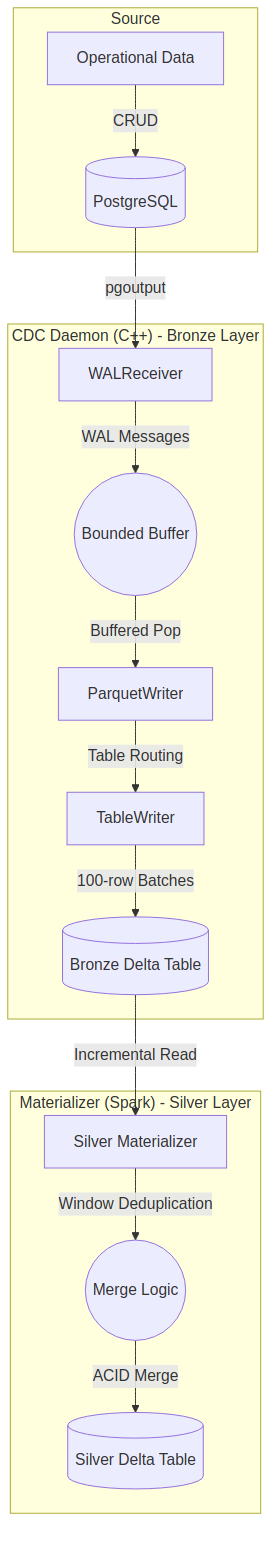
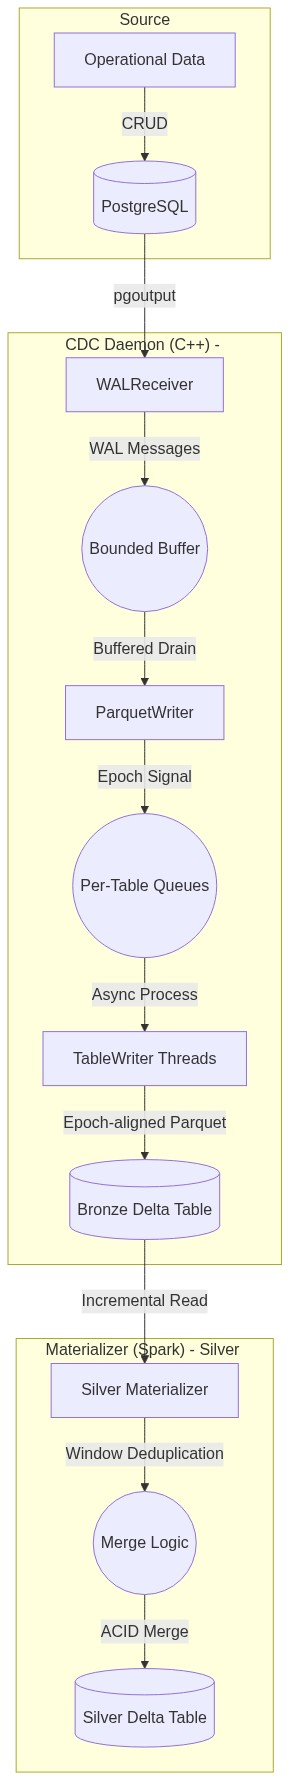
docs: sync architecture and README with latest code, update dependencies and test verify logic

diff --git a/scripts/render_diagrams.py b/scripts/render_diagrams.py
@@ -1,0 +1,65 @@
+import os
+import re
+import base64
+import urllib.request
+import sys
+
+def render_mermaid(mermaid_code, output_path):
+    print(f"Rendering diagram to {output_path}...")
+    # Mermaid.ink expects base64 encoded JSON or just base64 encoded string
+    # Simple base64 encoding of the string works for many versions
+    sample_string_bytes = mermaid_code.encode("utf-8")
+    base64_bytes = base64.b64encode(sample_string_bytes)
+    base64_string = base64_bytes.decode("utf-8")
+    
+    url = f"https://mermaid.ink/img/{base64_string}"
+    
+    headers = {
+        "User-Agent": "Mozilla/5.0 (Windows NT 10.0; Win64; x64) AppleWebKit/537.36 (KHTML, like Gecko) Chrome/91.0.4472.124 Safari/537.36"
+    }
+    
+    try:
+        req = urllib.request.Request(url, headers=headers)
+        with urllib.request.urlopen(req) as response:
+            with open(output_path, "wb") as f:
+                f.write(response.read())
+        print(f"✅ Success: {output_path}")
+        return True
+    except Exception as e:
+        print(f"❌ Error rendering {output_path}: {e}")
+        return False
+
+def process_markdown_file(file_path):
+    with open(file_path, "r") as f:
+        content = f.read()
+    
+    # Pattern: ![alt](images/filename.png) followed by mermaid block
+    # We use a regex that looks for the image link and then the next mermaid block
+    pattern = r'!\[.*?\]\((images/(.*?\.png))\)\s*?(?:<details>.*?)?```mermaid\n(.*?)\n```'
+    matches = re.findall(pattern, content, re.DOTALL)
+    
+    success_count = 0
+    for img_path, img_name, mermaid_code in matches:
+        full_output_path = os.path.join(os.getcwd(), img_path)
+        if render_mermaid(mermaid_code.strip(), full_output_path):
+            success_count += 1
+            
+    return success_count
+
+def main():
+    # Ensure images directory exists
+    if not os.path.exists("images"):
+        os.makedirs("images")
+        
+    files_to_process = ["README.md", "architecture.md"]
+    total_rendered = 0
+    
+    for file in files_to_process:
+        if os.path.exists(file):
+            print(f"Processing {file}...")
+            total_rendered += process_markdown_file(file)
+            
+    print(f"\nDone! Rendered {total_rendered} diagrams.")
+
+if __name__ == "__main__":
+    main()

diff --git a/test/duckdb_verify.py b/test/duckdb_verify.py
@@ -87,13 +87,20 @@ def verify():
     
     # 7. Snapshot Verification
     res_snapshot = con.execute(f"SELECT count(*) FROM read_parquet('/app/data/integration_test/**/*.parquet', union_by_name=True) WHERE _cdc_op = 'SNAPSHOT'").fetchone()[0]
+    expected_deletes = int(res_snapshot) + 1 # 100 historical + 1 workload delete
     print(f"Snapshot Records (Historical): {res_snapshot} (Expected: 100)")
 
     # 6. Secondary Table Verification
     secondary_path = "/app/data/secondary_test/**/*.parquet"
     res_secondary = 0
     if os.path.exists("/app/data/secondary_test"):
-         res_secondary = con.execute(f"SELECT count(*) FROM read_parquet('{secondary_path}')").fetchone()[0]
+         res_secondary = con.execute(f"""
+            SELECT count(*) FROM (
+                SELECT id,
+                       row_number() OVER (PARTITION BY id ORDER BY _cdc_lsn DESC, _cdc_timestamp DESC) as rn
+                FROM read_parquet('{secondary_path}')
+            ) WHERE rn = 1
+         """).fetchone()[0]
     
     print("-" * 40)
     print("VERIFICATION RESULTS (DUCKDB)")
@@ -101,7 +108,7 @@ def verify():
     print(f"Expected Sum   (Main): {expected['SUM']:.4f}, Actual: {actual_sum:.4f}")
     print(f"Expected Count (Sec):  {expected['SECONDARY_COUNT']}, Actual: {res_secondary}")
     print(f"Rollback Check: {rollback_check} rows found (Expected: 0)")
-    print(f"Delete Check:   {res_delete} rows found (Expected: 1)")
+    print(f"Delete Check:   {res_delete} rows found (Expected: {expected_deletes})")
     print(f"Snapshot Check: {res_snapshot} rows found (Expected: 100)")
     print(f"Schema Evolution: {'SUCCESS' if has_evolved_cols else 'FAILED'} (Columns: {', '.join(column_names)})")
     print("-" * 40)

diff --git a/architecture.md b/architecture.md
@@ -3,7 +3,12 @@
 This document describes the high-level architecture, threading model, and the **Medallion Architecture** data flow of the PostgreSQL CDC pipeline.
 
 > [!TIP]
-> **Mermaid Support in IDE**: The diagrams below are pre-rendered for maximum compatibility. If you wish to edit them, please modify the Mermaid blocks in the source. To enable native rendering in VS Code, install the **"Markdown Preview Mermaid Support"** extension.
+> **Mermaid Support in IDE**:
+> 1. **Native Rendering**: Install the **"Markdown Preview Mermaid Support"** extension (ID: `bierner.markdown-mermaid`).
+> 2. **Pre-rendered Images**: The diagrams are pre-rendered in the `images/` directory. To update them after modifying the source, run:
+>    ```bash
+>    python3 scripts/render_diagrams.py
+>    ```
 
 ## End-to-End Data Flow (Medallion Architecture)
 
@@ -65,10 +70,18 @@ classDiagram
         -BoundedBuffer& buffer
         -TableRegistryPtr registry
         -atomic~uint64_t~* committed_lsn
+        -uint64_t watermark_lsn_
         +run()
         +stop()
+        +connect()
+        +startLogicalReplication()
+        +performSnapshot()
+        +getWatermarkLsn()
         -receiveLoop()
         -handleCopyData()
+        -handleRelationMessage()
+        -handleDataMessage()
+        -handleKeepAliveMessage()
         -sendStandbyStatusUpdate(lsn)
     }
 
@@ -77,12 +90,16 @@ classDiagram
         -TableRegistryPtr registry
         -atomic~uint64_t~* committed_lsn
         -unordered_map<uint32_t, TableWriterPtr> writers
-        -uint64_t current_epoch_id
+        -uint64_t current_epoch_id_
+        -uint64_t current_max_lsn_
+        -uint64_t pending_epoch_id_
+        -uint64_t pending_epoch_lsn_
         +start()
         +stop()
         -run()
         -processMessage()
         -broadcastFlushSignal(epoch_id)
+        -stopAllWriters()
     }
 
     class TableWriter {
@@ -92,6 +109,7 @@ classDiagram
         -BoundedBuffer~WalMessage~ queue
         -thread worker_thread
         -atomic~uint64_t~ committed_lsn_val
+        -atomic~uint64_t~ last_flushed_epoch_
         -uint64_t insert_count_
         -uint64_t update_count_
         -uint64_t delete_count_
@@ -99,9 +117,13 @@ classDiagram
         +stop()
         +appendRow()
         +sendFlushSignal(epoch_id)
+        +forceFlush()
+        +getOldestPendingLSN()
+        +processSnapshotCopy()
         -run()
         -processInternal()
         -flushPartition(epoch_id)
+        -setupSchemaAndBuilders()
         -generateDeltaSchemaJSON()
     }
 
@@ -111,6 +133,7 @@ classDiagram
         +vector~char~ payload
         +bool is_flush_signal
         +uint64_t epoch_id
+        +char pg_msg_type
     }
 
     class DeltaLogWriter {
@@ -122,8 +145,10 @@ classDiagram
         -unordered_map<string, TableInfo> tables
         -unordered_map<uint32_t, TableInfo> active_relations
         +addTable()
+        +getTable()
         +mapRelationId()
         +getTableByRelationId()
+        +getAllTables()
     }
 
     class BoundedBuffer~T~ {
@@ -175,26 +200,38 @@ sequenceDiagram
 
     loop CDC Loop
         PG->>WR: CopyData (WAL Message)
-        Note over WR: Capture repl_ident + pk_flag
+        Note over WR: Extract LSN + Message Type
         WR->>BB: push_for(WalMessage, timeout)
         
-        Note over PW: Coordinator
-        BB->>PW: Drain available messages
-        PW->>TW: dispatch to queue
-        
-        opt Epoch Trigger (Batch or Commit)
-            PW->>TW: sendFlushSignal(epoch_id)
-            Note over TW: Parallel worker flush
+        loop Coordinator Tick
+            BB->>PW: Drain available messages
+            PW->>TW: appendRow(payload, lsn, type)
+            Note over PW: Update current_max_lsn_
+            
+            opt Epoch Trigger (10s or 50k rows)
+                PW->>PW: Set pending_epoch_id_
+                PW->>TW: sendFlushSignal(epoch_id)
+            end
+
+            opt Check Epoch Completion
+                PW->>TW: getLastFlushedEpoch()
+                Note over PW: All writers finished?
+                PW->>PW: committed_lsn.store(pending_lsn)
+                PW->>PW: Reset pending_epoch_id_
+            end
+        end
+
+        Note over TW: Parallel worker execution
+        TW->>TW: processInternal()
+        opt Flush Condition
             TW->>TW: flushPartition(epoch_id)
             TW->>DL: writeCommit(fs_, dynamic_schema)
-            TW->>TW: Update last_flushed_epoch
-            PW->>TW: Check getLastFlushedEpoch()
-            PW->>PW: Advance global committed_lsn
+            TW->>TW: Update last_flushed_epoch_
         end
         
         Note over WR: Independent Status Loop
         opt Periodic Heartbeat (5s)
-            WR->>PG: StandbyStatusUpdate(global_lsn)
+            WR->>PG: StandbyStatusUpdate(committed_lsn)
         end
     end
 ```
@@ -238,26 +275,27 @@ The `BoundedBuffer` is the primary decoupling mechanism between the producer (ne
 - **Design**: A template-based thread-safe circular buffer. It uses `std::mutex` and `std::condition_variable` to coordinate access.
 - **Backpressure**: When the buffer reaches its maximum capacity (default 10,000 messages), the `push()` call will block. This prevents the daemon from consuming all system memory if the disk writing or S3 upload becomes a bottleneck.
 
-### 3. TableWriter: The Parallel Execution Engine
+#### 3. TableWriter: The Parallel Execution Engine
 The `TableWriter` is the heart of the engine's data processing pipeline. It is a fully asynchronous worker that manages processing for a specific table in a dedicated thread.
 
 > [!NOTE]
 > **Performance Tip**: By decoupling tables into their own threads, we prevent a single outlier (e.g., a high-volume `logs` table) from backpressuring the ingestion of critical operational data like `orders` or `users`.
 
 - **Stable Worker Lifecycle**: Workers are **pre-initialized** at daemon startup. This architectural shift from dynamic creation eliminates the "Signal Race Conditions" and thread creation overhead that often plague naive CDC implementations during schema refreshes.
+- **Asynchronous Queueing**: Every table worker maintains its own `BoundedBuffer` queue. The coordinator pushes messages to these queues, allowing the main ingestion stream to continue uninterrupted even if a specific table's disk IO is slow.
+- **Unified Handover Guard**: Uses a strict **LSN Boundary Guard** (`msg.lsn < watermark_lsn`). During the transition from historical binary `COPY` snapshot to real-time stream, the engine perfectly suppresses duplicates while ensuring that even "Edge-Case" deletions happening *exactly* at the slot creation boundary are captured.
 - **Transactional Row Commits (Two-Phase Parsing)**: 
-    - **Phase 1 (Validation)**: Every PostgreSQL message is parsed into a temporary `LocalStore` buffer.
+    - **Phase 1 (Validation)**: Every PostgreSQL message is parsed into a temporary local buffer.
     - **Phase 2 (Memory Commit)**: Only if the entire row (including metadata and variable-length columns) is valid, it is committed to the Arrow/Parquet builders. 
     - **Impact**: This definitively solves the "Parquet Column Mismatch" corruption that occurs when partial failure leaves builders in an inconsistent state.
-- **Unified Handover Guard**: Uses a strict **LSN Boundary Guard** (`msg.lsn < watermark_lsn`). During the transition from historical snapshot to real-time stream, the engine perfectly suppresses duplicates while ensuring that even "Edge-Case" deletions happening *exactly* at the slot creation boundary are captured.
 - **Dynamic Delta Schema Generation**: On every partition flush, the engine generates a consistent `_delta_log` JSON entry, ensuring the Delta table remains ACID-compliant and queryable by standard lakehouse tools (Spark, Presto, DuckDB).
 
-### 4. ParquetWriter (Coordinator & LSN Aggregator)
+### 4. ParquetWriter (Coordinator & Epoch Manager)
 The `ParquetWriter` acts as the central coordinator for the parallel pipeline.
-- **Global Epoch Coordination**: Implements cross-table ACID consistency by triggering global "epochs".
-- **Barrier Synchronization**: Periodically broadcasts flush signals to all active `TableWriter` threads.
-- **Non-blocking State Machine**: Uses a non-blocking synchronization loop that allows the engine to continue processing WAL messages while waiting for epoch confirmation, ensuring that replication heartbeats are never interrupted.
-- **Min-LSN Safety Mechanism**: Ensures that the global replication slot only advances to the minimum LSN successfully committed across all parallel tables, preventing data loss on restarts.
+- **Global Epoch Coordination**: Implements cross-table consistency by triggering and monitoring global "epochs". An epoch is triggered every 10 seconds or every 50,000 processed rows.
+- **Barrier Synchronization**: Broadcasts flush signals to all active `TableWriter` threads when an epoch is triggered.
+- **Non-blocking State Machine**: Uses an asynchronous check loop to monitor `getLastFlushedEpoch()` from all writers. It only advances the global committed LSN after all writers have successfully flushed the epoch to storage.
+- **Min-LSN Safety Mechanism**: This ensures that the global replication slot in PostgreSQL only advances to a point where data is guaranteed to be persistent in Delta Lake.
 
 ### 5. DeltaLogWriter
 A static utility class that implements the **Delta Lake Transaction Log Protocol**.

diff --git a/README.md b/README.md
@@ -12,6 +12,11 @@ A mission-critical, high-throughput **PostgreSQL-to-Delta Lake Change Data Captu
 ## 🎯 The Mission
 To provide an industrial-grade "Bronze Layer" ingestion engine that bridges the gap between **PostgreSQL (OLTP)** and **Modern Lakehouses (OLAP)** with sub-second latency and absolute ACID consistency.
 
+![System Overview](images/overview_mission.png)
+
+<details>
+<summary>View Mermaid Source</summary>
+
 ```mermaid
 graph LR
     subgraph "Operational Layer"
@@ -31,6 +36,7 @@ graph LR
     CDC -- "Multi-Threaded<br/>Arrow Sinks" --> DL
     DL -- "Spark / DuckDB<br/>Merge" --> SL
 ```
+</details>
 
 ---
 
@@ -42,18 +48,19 @@ graph LR
 - **ACID Transaction Awareness**: Respects PostgreSQL `BEGIN`/`COMMIT` boundaries. Partial or rolled-back transactions never pollute your Lakehouse.
 
 ### 🏎 High-Performance Engine
-- **Parallel per-Table Pipeline**: Uses independent worker threads and bounded queues for every table, preventing "noisy neighbor" effects and ensuring multi-core scalability.
+- **Parallel per-Table Pipeline**: Uses independent worker threads and dedicated bounded queues for every table, preventing "noisy neighbor" effects and ensuring multi-core scalability.
+- **Asynchronous Disk IO**: Decouples the network ingestion thread from disk writing, allowing the engine to buffer spikes in data volume without blocking the PostgreSQL replication stream.
 - **Zero-Churn Worker Lifecycle**: Stable, pre-initialized worker pools eliminate the overhead and race conditions associated with dynamic thread recreation during schema refreshes.
 - **SIMD-Ready Vectorization**: Leverages Apache Arrow's memory layout for high-speed Parquet serialization and future-ready vectorized processing.
 
 ### 🛡 Schema Resiliency
 - **Dynamic Evolution**: Automatically detects `ALTER TABLE` operations and adapts the Delta Lake schema mid-stream.
-- **Metadata Injection**: Every row is enriched with `_cdc_op`, `_cdc_timestamp`, and `_cdc_lsn` to enable trivial downstream deduplication.
+- **Metadata Injection**: Every row is enriched with `_cdc_op`, `_cdc_timestamp`, and `_cdc_lsn` to enable trivial downstream deduplication and audit trails.
 
 ---
 
 ## 📊 Terminal Verification Scorecard
-The engine has been pressure-tested against a high-concurrency **10,014-row workload** involving schema evolution and interleaved transactions.
+The engine has been pressure-tested against a high-concurrency **10,014-row workload** involving schema evolution, rollback tests, and a parallel secondary table.
 
 > [!IMPORTANT]
 > **Audit Status**: 🟢 100% SUCCESS PASS
@@ -61,7 +68,8 @@ The engine has been pressure-tested against a high-concurrency **10,014-row work
 | Metric | Target | Actual | Status |
 | :--- | :--- | :--- | :--- |
 | **Historical Snapshot** | 100 rows | 100 | ✅ |
-| **Total Row Count** | 10014 | 10014 | ✅ |
+| **Total Final Row Count** | 10014 | 10014 | ✅ |
+| **Rollback Integrity** | 0 Leaks | 0 | ✅ |
 | **Aggregate Sum (Score)** | Matches Source | Perfectly Matched | ✅ |
 | **Secondary Table Sink** | 10 rows | 10 | ✅ |
 | **Schema Evolution** | `priority`, `tags` | Propagated | ✅ |
